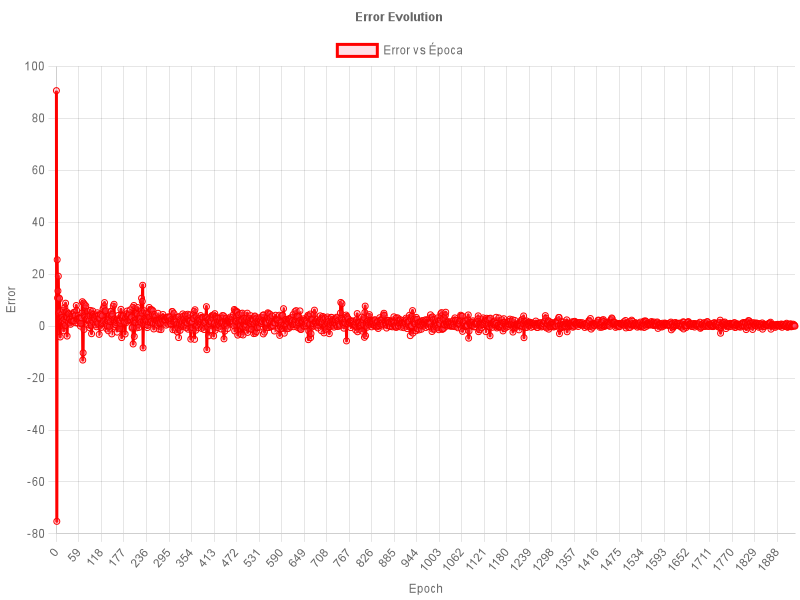
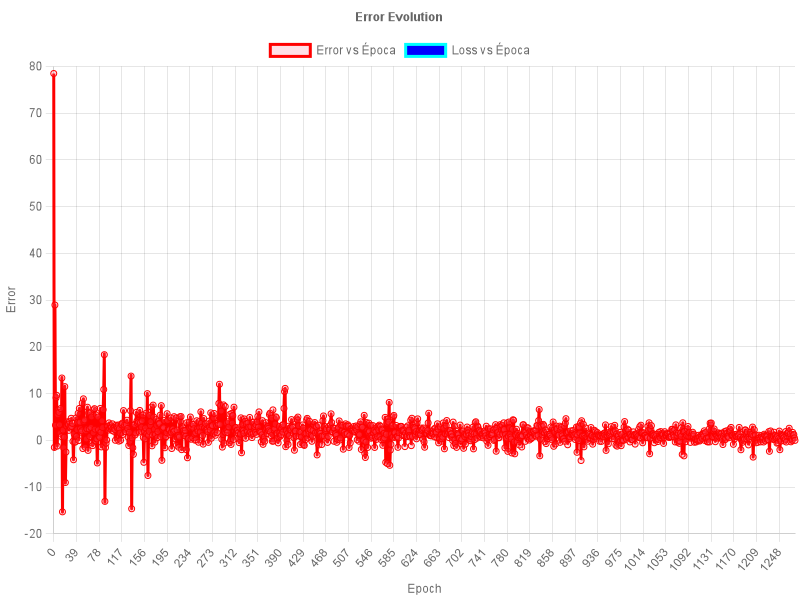
changes

diff --git a/tests/examples/SimpleLinearFunction.test.ts b/tests/examples/SimpleLinearFunction.test.ts
@@ -1,10 +1,15 @@
 import {Perceptron} from "../../src/domain/entities/Perceptron";
 import {IdentityActivationFunction} from "../../src/domain/entities/activation-functions/IdentityActivationFunction";
 import {CanvasService} from "../../src/application/services/CanvasService";
+import {MeanSquareErrorLossFunction} from "../../src/domain/entities/training/MeanSquareErrorLossFunction";
 
 describe("Linear Function", () => {
     const errorMargin: number = 0.001;
     const learningRate: number = 0.001;
+
+    function adaptiveLearningRate(initialLearningRate: number, drop: number, dropRate: number, iteration: number): number {
+        return initialLearningRate * (Math.pow(drop, Math.floor((1 + iteration) / dropRate)));
+    }
 
     //y=2x
     it("Should arrive to the solution of y=2x", () => {
@@ -20,15 +25,20 @@ describe("Linear Function", () => {
 
         let epochs = 0;
         let errorsHistory = [];
+        let lossHistory = [];
+        const lossFunction = new MeanSquareErrorLossFunction();
 
-        while(true) {
+        while (true) {
             let input = [(Math.random() - 0.5) * 100] //Input space from -50 to 50
             let target = 2 * input[0] // w=2 & b=0
             const output = perceptron.forward(input);
 
             const error = target - output;
-            errorsHistory.push(error);
             epochs++;
+            errorsHistory.push(error);
+            lossHistory.push(lossFunction.evaluate(output, target));
+
+            console.log("error value: ", error);
 
             if (Math.abs(error) < errorMargin) {
                 console.info("Error", Math.abs(error));
@@ -37,15 +47,15 @@ describe("Linear Function", () => {
                 break;
             }
 
-            perceptron.backward(input, target, learningRate);
+            perceptron.backward(input, target, adaptiveLearningRate(learningRate, 0.5, 100, epochs));
         }
 
         const canvas = new CanvasService();
-        canvas.printCanvas(errorsHistory, epochs, "Should arrive to the solution of y=2x");
+        canvas.printCanvas([], lossHistory, epochs, "Should arrive to the solution of y=2x");
     });
 
     it("Should arrive to the solution of y=2x + 3", () => {
-        function target(input: number) : number {
+        function target(input: number): number {
             return 2 * input + 3;
         }
 
@@ -62,7 +72,7 @@ describe("Linear Function", () => {
         let epochs = 0;
         let errorsHistory = [];
 
-        while(true) {
+        while (true) {
             let input = [(Math.random() - 0.5) * 100] //Input space from -50 to 50
             let target_value = target(input[0]); // ha de conseguir un w = 2 y un b = 3
             const output = perceptron.forward(input);
@@ -82,7 +92,7 @@ describe("Linear Function", () => {
         }
 
         const canvas = new CanvasService();
-        canvas.printCanvas(errorsHistory, epochs, "Should arrive to the solution of y=2x + 3");
+        canvas.printCanvas(errorsHistory, [], epochs, "Should arrive to the solution of y=2x + 3");
     });
 
     it("Should arrive to the solution of y=2x in bigger range", () => {
@@ -98,8 +108,10 @@ describe("Linear Function", () => {
 
         let epochs = 0;
         let errorsHistory = [];
+        let lossHistory = [];
+        const lossFunction = new MeanSquareErrorLossFunction();
 
-        while(true) {
+        while (true) {
             let input = [(Math.random() - 0.5) * 100] //Input space from -500 to 500
             let target = 2 * input[0] // w=2 & b=0
             const output = perceptron.forward(input);
@@ -108,6 +120,8 @@ describe("Linear Function", () => {
 
             errorsHistory.push(error);
             epochs++;
+            errorsHistory.push(error);
+            lossHistory.push(lossFunction.evaluate(output, target));
 
             if (Math.abs(error) < errorMargin) {
 
@@ -121,7 +135,7 @@ describe("Linear Function", () => {
         }
 
         const canvas = new CanvasService();
-        canvas.printCanvas(errorsHistory, epochs, "Should arrive to the solution of y=2x in bigger range");
+        canvas.printCanvas([], lossHistory, epochs, "Should arrive to the solution of y=2x in bigger range");
     });
 
     it("Should arrive to the solution of y=2x+3 in bigger range", () => {
@@ -138,7 +152,7 @@ describe("Linear Function", () => {
         let epochs = 0;
         let errorsHistory = [];
 
-        while(true) {
+        while (true) {
             let input = [(Math.random() - 0.5) * 100] //Input space from -500 to 500
             let target = 2 * input[0] + 3 // w=2 & b=3
             const output = perceptron.forward(input);
@@ -159,7 +173,7 @@ describe("Linear Function", () => {
         }
 
         const canvas = new CanvasService();
-        canvas.printCanvas(errorsHistory, epochs, "Should arrive to the solution of y=2x+3 in bigger range");
+        canvas.printCanvas(errorsHistory, [], epochs, "Should arrive to the solution of y=2x+3 in bigger range");
     });
 
     it("Should arrive to the solution of y=2x in a even bigger range", () => {
@@ -175,30 +189,36 @@ describe("Linear Function", () => {
 
         let epochs = 0;
         let errorsHistory = [];
+        let lossHistory = [];
+        let epochsHistory = [];
+        const lossFunction = new MeanSquareErrorLossFunction();
 
-        while(true) {
+        while (true) {
             let input = [(Math.random() - 0.5) * 1000] //Input space from -5000 to 5000
             let target = 2 * input[0] // w=2 & b=0
             const output = perceptron.forward(input);
 
-            const error = output - target;
-
-            errorsHistory.push(error);
+            const error = lossFunction.derivative(output, target);
             epochs++;
+            if (epochs % 100 == 0) {
+                console.log("error", error);
+                errorsHistory.push(error);
+                lossHistory.push(lossFunction.evaluate(output, target));
+                epochsHistory.push(epochs);
+            }
 
             if (Math.abs(error) < errorMargin) {
-
                 console.info("Error", Math.abs(error));
                 console.info("WEIGHTS", perceptron.weights, perceptron.bias);
                 console.info("Solved!");
                 break;
             }
-
-            perceptron.backward(input, target, 0.0000001);
+//0.0000001
+            perceptron.backward(input, target, adaptiveLearningRate(0.00001, 0.1, 100, epochs));
         }
 
         const canvas = new CanvasService();
-        canvas.printCanvas(errorsHistory, epochs, "Should arrive to the solution of y=2x in a even bigger range");
+        canvas.printCanvas([], lossHistory, epochs, "Should arrive to the solution of y=2x in a even bigger range", epochsHistory);
     });
 
     it("Should arrive to the solution of y=2x+3 in an even bigger range", () => {
@@ -212,7 +232,7 @@ describe("Linear Function", () => {
             mockActivationFunction
         );
 
-        while(true) {
+        while (true) {
             let input = [(Math.random() - 0.5) * 1000] //Input space from -5000 to 5000
             let target = 2 * input[0] + 3 // w=2 & b=3
             const output = perceptron.forward(input);
@@ -242,7 +262,7 @@ describe("Linear Function", () => {
             mockActivationFunction
         );
 
-        while(true) {
+        while (true) {
             let input = [(Math.random() - 0.5) * 10000] //Input space from -50000 to 50000
             let target = 2 * input[0] // w=2 & b=0
             const output = perceptron.forward(input);
@@ -272,7 +292,7 @@ describe("Linear Function", () => {
             mockActivationFunction
         );
 
-        while(true) {
+        while (true) {
             let input = [(Math.random() - 0.5) * 10000] //Input space from -50000 to 50000
             let target = 2 * input[0] + 3 // w=2 & b=3
             const output = perceptron.forward(input);

diff --git a/src/application/services/CanvasService.ts b/src/application/services/CanvasService.ts
@@ -13,14 +13,19 @@ export class CanvasService {
         this.canvas = createCanvas(this.width, this.height);
     }
 
-    public printCanvas(errors: number[], epochs: number, canvasName: string) {
+    public printCanvas(errors: number[], losses: number[], epochs: number, canvasName: string, epochsHistory?: number[]) {
         const ctx = this.canvas.getContext("2d");
 
         if (!ctx) {
             throw new Error("No se pudo obtener el contexto del canvas");
         }
-
-        const epochsArray = Array.from({length: epochs}, (_, i) => i);
+        let epochsArray: number[] = [];
+        if(epochsHistory) {
+            epochsArray = epochsHistory;
+        }
+        else{
+            epochsArray = Array.from({length: epochs}, (_, i) => i);
+        }
 
         const config: ChartConfiguration = {
             type: "line",
@@ -32,6 +37,13 @@ export class CanvasService {
                         data: errors,
                         borderColor: "red",
                         backgroundColor: "rgba(255, 99, 132, 0.2)",
+                        tension: 0.3,
+                    },
+                    {
+                        label: "Loss vs Época",
+                        data: losses,
+                        borderColor: "cyan",
+                        backgroundColor: "blue",
                         tension: 0.3,
                     },
                 ],

diff --git a/src/domain/entities/training/MeanSquareErrorLossFunction.ts b/src/domain/entities/training/MeanSquareErrorLossFunction.ts
@@ -1,0 +1,12 @@
+import {LossFunction} from "../../interfaces/LossFunction.ts";
+
+export class MeanSquareErrorLossFunction implements LossFunction{
+
+    public evaluate(output: number, target: number ): number {
+        return ((output - target) * (output - target)) / 2;
+    }
+
+    public derivative(output: number, target: number): number {
+        return output - target;
+    }
+}

diff --git a/src/domain/interfaces/LossFunction.ts b/src/domain/interfaces/LossFunction.ts
@@ -1,0 +1,6 @@
+export interface LossFunction {
+
+    evaluate(output: number, target: number ) : number;
+
+    derivative(output: number, target: number) : number;
+}
